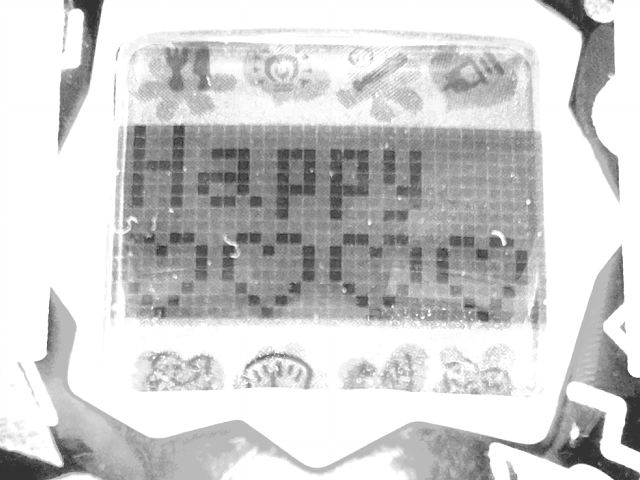
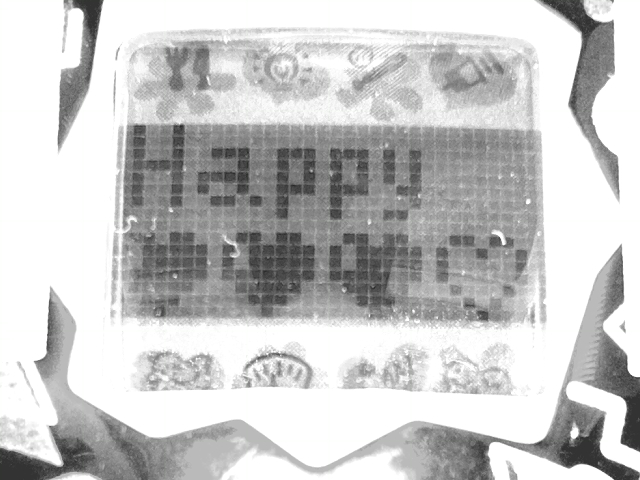
Auto feed snacks works

diff --git a/controller.py b/controller.py
@@ -54,6 +54,7 @@ class TamaController(object):
     self.careInterval = careInterval
     self.lastCare = time.time() - self.careInterval - 1 # Subtract this so you can do the first check straight away
     self.prevLoveMode = True
+    self.prevAutoMode = False
     self.SnackKillCounter = 0
     self.lock = lock
 
@@ -123,6 +124,8 @@ class TamaController(object):
     if self.tamaVision.findPattern(frameFileName, 'angel.png'):
         self.physState.to_dead()  
         return    
+    self.physState.to_child()
+    return
     if self.physState.state in ['unknown', 'dead']:
       if self.tamaVision.findPattern(frameFileName, 'egg_1.png'):
         self.physState.to_egg()
@@ -282,7 +285,7 @@ class TamaController(object):
 
         fn = 'frame.jpg'
         self.getFrame(fn)
-        if self.tamaVision.snackSelected(): # select nutricious food, our tama must not eat snacks
+        if not self.tamaVision.mealSelected(fn): # select nutricious food, our tama must not eat snacks
           self.tamaButtons.pressL()
 
         while self.amountHunger > 0:
@@ -323,29 +326,28 @@ class TamaController(object):
       sleep(5)
       self.tamaButtons.pressR()
 
-  def feedSnack(self):
-    logger.log(logging.WARNING,'Killing Tamagotchi. Just one more snack...')
+  def checkIfTamaIsDead(self):
     fn = 'frame.jpg'
     self.getFrame(fn)
-    if not self.tamaVision.snackSelected():
-      self.tamaButtons.pressL()
-    self.tamaButtons.pressM()
-    self.tamaButtons.pressL()
-    self.tamaButtons.pressM()
-    sleep(7)
-    self.tamaButtons.pressR()
-    self.tamaButtons.pressR()
-
-  def checkIfTamaIsDead(self, fn):
     if self.tamaVision.findPattern(fn, 'angel.png'):
       self.physState.to_dead() 
       return True 
     else:
+      logger.log(logging.WARNING,'Tamagotchi is not dead yet.')
       return False
+    
+  def feedSnack(self):
+    self.tamaButtons.pressM()
+    self.SnackKillCounter += 1
+    logger.log(logging.WARNING,'Snacks given: '+ str(self.SnackKillCounter))
+    sleep(1)
+    self.tamaButtons.pressL()
+
 
   def getAndHandleState(self, autoMode, loveMode):
     if autoMode:
-      logger.log(logging.WARNING, 'Automatic control loop running...')
+      if self.prevAutoMode == False:
+        logger.log(logging.WARNING, 'Automatic control enabled...')
       if loveMode:
         if self.prevLoveMode == False:
           logger.log(logging.WARNING,'Good thing you disabled murder mode. You are still a bad person for even trying it...')
@@ -381,22 +383,29 @@ class TamaController(object):
           self.snackKillCounter = 0
           fn = 'frame.jpg'
           self.getFrame(fn)
-          self.detectPhysState( fn)
-
-        if self.physState not in ['dead']:
-          fn = 'frame.jpg'
-          self.getFrame(fn)
-          self.checkIfTamaIsDead(fn)
-        else:
-          logger.log(logging.WARNING,'Sweet little Tama is dead. Is this what you wanted??')
+          self.detectPhysState(fn)
 
         if self.physState != 'dead':
-          self.feedSnack()
-          self.SnackKillCounter += 1
-          logger.log(logging.WARNING,'Snacks given: '+ str(self.SnackKillCounter))
+          self.tamaButtons.pressL()
+          self.tamaButtons.pressM()
+
+          fn = 'frame.jpg'
+          self.getFrame(fn)
+          if self.tamaVision.mealSelected(fn):
+            self.tamaButtons.pressL()
+          
+          i = 0
+          while self.physState not in ['dead']:
+            self.feedSnack()
+            i = i + 1
+            if i > 10:
+              self.checkIfTamaIsDead()
+              i = 0
+            
+          logger.log(logging.WARNING,'Sweet little Tama is dead. Is this what you wanted??')
 
       self.prevLoveMode = loveMode   
-          
+    self.prevAutoMode = autoMode      
     
     
       

diff --git a/vision.py b/vision.py
@@ -37,8 +37,7 @@ class TamaVision(object):
     def rescaleSprites(self, spritesFolder, rescaledFolder, scaleFactor):
         for filename in os.listdir(spritesFolder):
             image = ski.io.imread(spritesFolder+'/'+filename, as_gray=True)
-
-            
+        
             if filename != ('needs_discipline.png'): #this one is straight captured from the display, doesn't need scaling
                 image = rescale(image, scaleFactor, anti_aliasing = True, order=0) # nearest neighbour prevents blur
             image = ski.util.img_as_ubyte(image) # needed because otherwise trying to store floats between 0 and 1 in uint formatted png
@@ -53,19 +52,28 @@ class TamaVision(object):
                 return missingHearts
         return missingHearts
     
-    def snackSelected(self, fn):
-        image = ski.io.imread(fn, as_gray=True)
-        image = image[110:341, 95:570] # crop screen
-        thresh = threshold_yen(image)
-        image = image > (thresh+self.thresOffset)
+    def mealSelected(self, fn):
+        input = ski.io.imread(fn, as_gray=True)
+        cropped = input[110:341, 95:570] # crop screen
+        thresh = threshold_yen(cropped)
+        thresd = cropped > (thresh+self.thresOffset)
+        selected = thresd[0:120, 0:100] # crop to arrow position for snack selection
+        ''' # if you run below, you will be too late to select the right option...
         
-        image = image[225:341, 95:190] # crop to arrow position for snack selection
-        avg = np.average(image)
         fig = plt.figure(figsize=(5, 3))
-        ax1 = plt.subplot(1,1)
-        ax1.imshow(image, cmap=plt.cm.gray)
+        ax1 = plt.subplot(1,4,1)
+        ax1.imshow(input, cmap=plt.cm.gray)
+        ax2 = plt.subplot(1,4,2)
+        ax2.imshow(cropped, cmap=plt.cm.gray)
+        ax3 = plt.subplot(1,4,3)
+        ax3.imshow(thresd, cmap=plt.cm.gray)
+        ax3 = plt.subplot(1,4,4)
+        ax3.imshow(selected, cmap=plt.cm.gray)
+        plt.savefig('smalldick.png', bbox_inches = 'tight', pad_inches = 0)
+        '''
+        avg = np.average(selected)
         print(avg)
-        if avg > 0.5:
+        if avg <0.85:
             return True
         else:
             return False
